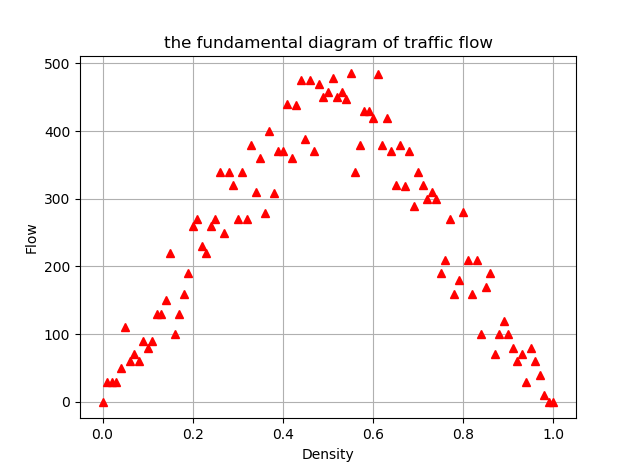
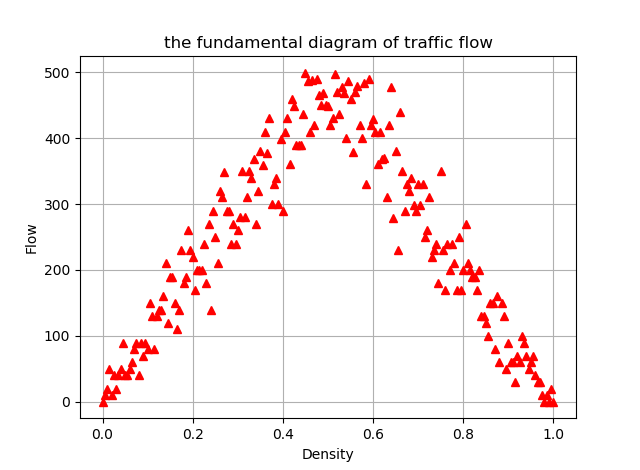
Q5 solved

Changed region(s): [[0.0625, 0.1489, 0.9062, 0.8638], [0.0625, 0.1191, 0.125, 0.1787], [0.0625, 0.6851, 0.0938, 0.7447]]

diff --git a/CAhw4/RunMeForTest.py b/CAhw4/RunMeForTest.py
@@ -29,37 +29,28 @@ systemSize = r * 2 + 1
 initRowLength = 100
 densityListXaxis = list()
 flowListYaxis = list()
-initStateTimes = 10  # R
-densityRange = np.linspace(0, 1, 201)
+densityRange = np.linspace(0, 1, 51)
 rule = 184
-#densityRange = [0.4]
+T = 1000  # T
+initStateTimes = 10  # R
+#densityRange = [0.4,[0.9]] # for Qestion 2
 initRow = [0] * initStateTimes
 flowVehicleList = [0] * initStateTimes
 for density in densityRange:
     for R in range(initStateTimes):
         initRow[R] = initial_row(initRowLength, density)
         model = CAmodel(r, k, rule, initRow[R], systemSize)
-        #def __init__(self, range, base, rule, initRow, systemSize):
         runTime = 0  #run times
         flowVehicle = 0
-        #flowTime = 50
-        while runTime < 1000:  #T
+        while runTime < T:  #T
             currentRow = tuple(model.currentRow)
             runTime += 1
             currentRow = model.step()
             if (currentRow[0] == 1):
                 if (currentRow[1] == 0):
                     flowVehicle += 1
-            #print("current row:", currentRow)
-            #rowDraw.append(currentRow)
         flowVehicleList[R] = flowVehicle
     densityListXaxis.append(density)
     flowListYaxis.append(np.mean(flowVehicle))
 
-#np.floor(np.array(rowDraw))
-#print(densityListXaxis, flowListYaxis)
-#print(rowDraw)
-#testArr = np.array([[1, 1, 1, 2, 3, 4], [1, 2, 3, 4, 5, 6]])
-#print(np.reshape(rowDraw, (100, 102)))
-#model.draw_hw4_bin(rowDraw)
 model.draw_hw4(densityListXaxis, flowListYaxis)

diff --git a/CAhw4/readme.md b/CAhw4/readme.md
@@ -17,4 +17,8 @@ _You may see code in [RunMeGetCAfigure](RunMeGetCAfigure.py)_
 * According to ![result](hw4_result.png)
 when Value = 0.5, reached phase transition  
 You may find code in [RunMeForTest](RunMeForTest.py)
-5. 
+5. Now plot the same graph but for a very low T (e.g., T = 5) and a very low number of initial conditions R per density value (e.g., R = 3). What is the effect of such ’undersampling’? Show a plot with undersampled results.  
+* ![lowT_lowR_Q5.png](lowT_lowR_Q5.png)  
+It is not accurate to expected figure at all.  
+_Run RunMeForTex.py and changing R(initStateTime) and T arguments to see figure_
+6. 
